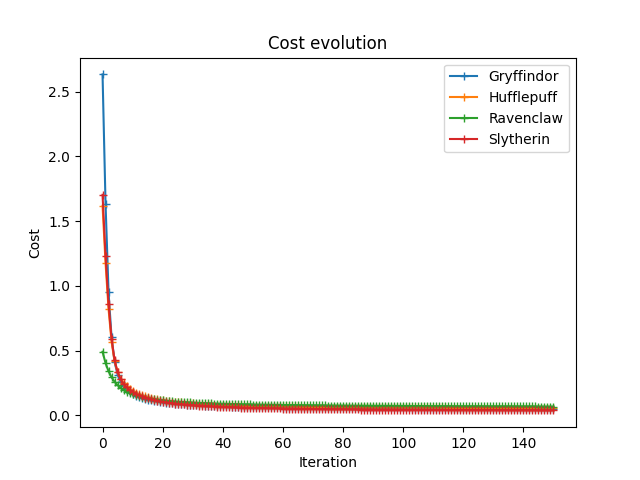
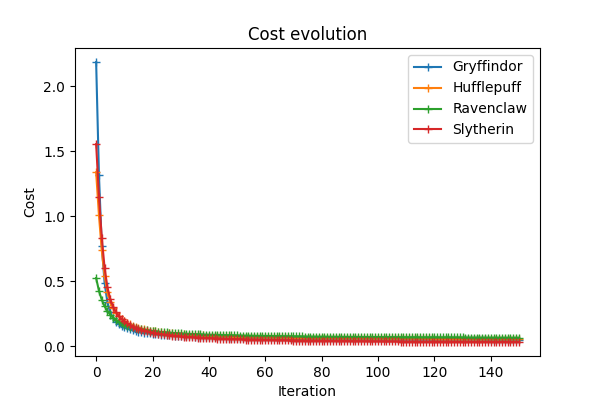
completed the readme

diff --git a/src/logreg_train.py b/src/logreg_train.py
@@ -34,13 +34,13 @@ def scale_features(df_train, courses, n_features):
         x_stds[i_row] = ft_std(x[i_row, :])
         x_scaled[i_row, :] = (x[i_row, :] - x_means[i_row]) / x_stds[i_row]
 
-    fig, ax = plt.subplots(1, 2, figsize=(12, 6))
+    fig, ax = plt.subplots(1, 2, figsize=(8, 4))
     ax[0].plot(x.T)
     ax[0].set_title('Unscaled features')
-    ax[0].legend(courses)
+    ax[0].legend(courses, fontsize=8)
     ax[1].plot(x_scaled.T)
     ax[1].set_title('Scaled features')
-    ax[1].legend(courses)
+    ax[1].legend(courses, fontsize=8)
     ax[0].set_xlabel('Student id')
     ax[0].set_ylabel('Score')
     ax[1].set_xlabel('Student id')
@@ -73,7 +73,7 @@ def gradient_descent(X, y_arr, n_features, houses):
             cost_evolution[i + 1, h] = cost(thetaT, X, y, n_train).squeeze()
         thetaT_arr[h, :] = thetaT
 
-    fig, ax = plt.subplots()
+    fig, ax = plt.subplots(figsize=(6, 4))
     ax.plot(cost_evolution, '-+')
     ax.set_xlabel('Iteration')
     ax.set_ylabel('Cost')

diff --git a/readme.md b/readme.md
@@ -1,12 +1,12 @@
-# 42 Data Science: Logistic Regression (DSLR)
+# 42 Data Science - Logistic Regression
 
-The goal of this project is to implement a multi-class linear classifier "from scratch" using logistic regression. From scratch here means that we implement our own data statistics tools, feature scaling, cost function, and gradient descent algorithm. We use Python 3.10 and the following libraries: numpy for efficient array/matrix operations, pandas for the manipulation of the dataset, and matplotlib for the visualization.
+The goal of this project is to implement a multi-class linear classifier "from scratch" using logistic regression. From scratch here means that we implement our own data statistics tools, feature scaling, cost function, and gradient descent algorithm. We use Python 3.10 and the following libraries: numpy for efficient array/matrix operations, pandas for the manipulation of the csv dataset, and matplotlib for the visualization.
 
 ## The story
 
 The Sorting Hat of the infamous Hogwarts school of wizards is not longer working and cannot fulfill his role of sorting the students into the four houses: _Ravenclaw_, _Gryffindor_, _Slytherin_, and _Hufflepuff_. We are provided a dataset from the previous years containing the scores of 1600 students across 13 fields, and the houses they were assigned to. With our muggle datascience and machine learning tools, we need to simulate a Sorting Hat to be able to sort the 400 new students into their best fitting houses based on their scores.
 
-## Task 1: Data Analysis
+## Data Analysis
 
 We create a program for computing basic statistics of our training dataset. For each of the 13 courses/fields, we compute the number of data points (count), mean score, standard deviation, minimum, maximum, median, first and third quartile. Note that this program is basically a re-implementation of the pandas builtin describe() function (that we are not allowed to use).
 
@@ -27,13 +27,13 @@ Min    -24370.000000  -966.740546   -10.295663  ...                  -3.313676  
 Max    104956.000000  1016.211940    11.612895  ...                   3.056546  -225.428140   279.070000
 ```
 
-We note the wide discrepancy of the score ranges used in different courses. This already gives us a hint that feature scaling will be crucial for the convergence of the gradient descent.
+We note the wide discrepancy of the score ranges used in different courses. This already gives us a hint that feature scaling will be necessary for the convergence of the gradient descent.
 
-## Task 2: Data Visualization
+## Data Visualization
 
 ### Histograms of score distribution
 
-To get a better sense of the score distribution in the different courses, and across the 4 houses, we implement a stacked histogram array. The output histogram is saved in the _figures_ directory
+To get a better sense of the score distribution in the different courses, and across the 4 houses, we produce a stacked histogram array. The output histogram is saved in the _figures_ directory.
 
 ```sh
 python src/histogram.py
@@ -55,15 +55,22 @@ python src/pair_plot.py
 
 We observe above the first 20 pair plots. Let's first focus on the pair plot corresponding to the two courses identified above as having a homogeneous score distribution across the different houses: _Arithmancy_ - _Care of Magical Creatures_. The 4 clouds of points are fully superimposed and do not allow to discriminate between their corresponding 4 houses. We thus discard those two features from the dataset. We also notice that two features are perfectly (anti-)correlated and thus fully redundant: _Astronomy_ and _Defense Against the Dark Arts_. We remove the _Astronomy_ feature from our dataset.
 
-## Task 3: Logistic Regression
+## Logistic Regression
 
-To implement our multi-class linear classifier, we follow the procedure and notation of the [Coursera Machine Learning](https://www.coursera.org/learn/machine-learning?specialization=machine-learning-introduction) course by Andrew Ng.
+To implement our multi-class linear classifier, we follow the procedure and notation of the [Coursera Machine Learning](https://www.coursera.org/learn/machine-learning?specialization=machine-learning-introduction) course by Andrew Ng. Because we do not have access to the true houses corresponding to the students in the test set (only revealed during project evaluation), we need to split our training set into two subsets to validate our procedure. 80% of the students are randomly sampled from the original train dataset and placed into a new training set, and the remaining 20% into a "dummy" test set. The actual house labels are moved from the new test set into an _expected_result_ csv file. These different files are generated into the _validation_datasets_ folder with the following command:
+
+```sh
+python src/generate_validation_datasets.py
+```
 
 ### Data cleaning and feature scaling
 
-From our training set, we remove the students for which some scores are missing. We retain $n = 1300$ students of the original 1600. Let $m = 10$ be the number of remaining features (course scores), and $x_ij$ the score in course $i$ of student $j$.
 
-The range of score being widely different from one course to another, it is important for the convergence of the gradient descent that we scale our features so they have similar means and standard variations. This normalization is performed as $x_{ij} = \frac{x_{ij} - \mathrm{mean}(x_{ij})}{\mathrm{std}(x_{ij})}$, where the mean and standard deviation are computed over the $j = 1$ to $n$ students. 
+From our training set, we remove the students for which some scores are missing. We retain $n = 1061$ students of the original 1280. Let $m = 10$ be the number of remaining features (course scores), and $x_{ij}$ the score in course $i$ of student $j$.
+
+The range of score being widely different from one course to another, it is important for the convergence of the gradient descent that we scale our features so they have similar means and standard variations. This normalization is performed as $x_{ij} = \frac{x_{ij} - \mathrm{mean}(x_{ij})}{\mathrm{std}(x_{ij})}$, where the mean and standard deviation are computed over the $j = 1$ to $n$ students. The orginal and scaled features are shown in the figure below:
+
+![features](./figures/features.png)
 
 ### Prediction
 
@@ -84,7 +91,7 @@ The logistic function is appropriate to separate data into two categories, depen
 
 The cost function $J(\mathbf{\theta})$ tells us, for a given set of weights $\mathbf{\theta}$, how well our estimation $\mathbf{\hat{y}}$ fits the labels $\mathbf{y}$. In linear regression, such cost function is usually as simple as the average of the squared distance between $\mathbf{\hat{y}}$ and $\mathbf{y}$. However, it can be shown that a cost function of this form is unsuited for logistic regression as it presents many local minima. Instead, a better suited cost function is computed as:
 $$J(\mathbf{\theta}) = -\frac{1}{m} \sum_{j = 1}^{n} [\ y_j \mathrm{log}(\hat{y}_j)  + (1 - y_j) \mathrm{log}(1 - \hat{y}_j) ]\ $$
-$$= \mathrm{log} (\mathbf{\hat{y}}) \mathbf{y^T} + \mathrm{log} (1 - \mathbf{\hat{y}}) (1 - \mathbf{y^T}) $$
+$$= -\frac{1}{m} [\ \mathrm{log} (\mathbf{\hat{y}}) \mathbf{y^T} + \mathrm{log} (1 - \mathbf{\hat{y}}) (1 - \mathbf{y^T}) ]\ $$
 with $\mathbf{\hat{y}} = h(\mathbf{\theta^T X})$.
 
 ### Gradient descent
@@ -101,15 +108,40 @@ $$\theta_i := \theta_i - \alpha \frac{\partial J}{\partial \theta_i}$$
 for $i = 0$ to $m$, or
 $$\mathbf{\theta} := \mathbf{\theta} -\alpha \mathbf{\nabla} J(\mathbf{\theta})$$
 using matrix notation.
-$\alpha$ is a parameter that controls the size of the steps. $\alpha$ should be small enough to ensure stability, i.e., to guarantee that each step we take reduces the value of the cost function. But $\alpha$ should also be large enough to ensure convergence towards the minimum in a reasonable time. In practice, we test various $\alpha$ values across several order of magnitudes and look at the evolution of the cost function $J(\mathbf{\theta})$ along iterations. A typical converging cost function looks line the ones below ($\alpha$=0.5, 200 iterations):
+$\alpha$ is a parameter that controls the size of the steps. $\alpha$ should be small enough to ensure stability, i.e., to guarantee that each step we take reduces the value of the cost function. But $\alpha$ should also be large enough to ensure convergence towards the minimum in a reasonable time. In practice, we test various $\alpha$ values across several order of magnitudes and look at the evolution of the cost function $J(\mathbf{\theta})$ along iterations. For a converging gradient descent, a typical evolution of the cost function looks like the one below ($\alpha$=0.5, 150 iterations):
 
-fig here.
+![cost evolution](./figures/cost_evolution.png)
 
-Note that this figure shows the convergence of the 4 classifiers corresponding to the 4 houses
-The weights of 4 classifiers are saved into a file as well as the scaling values (mean and std) that are used to normalize the raw student scores.
+Note that this figure shows the convergence of the 4 gradient descents corresponding to the 4 different classifiers (4 houses) that we train. The weights $\mathbf{\theta}$ of the 4 classifiers are saved into a _npz_ binary file along with the feature scaling parameters (mean and standard deviation of course scores).
 
-## Task 4: Application to the test set:
+The training of the classifiers is performed with the following command:
 
-forward prop appl to test set.
+```sh
+python src/logreg_train.py --valid
+```
+for the training subset used for our validation procedure, or
+```sh
+python src/logreg_train.py
+```
+for the full training dataset.
 
+### Application to the test set
 
+To make a prediction on the test set, we first load the trained weights $\mathbf{\theta}$ of the 4 classifiers, and the feature scaling parameters. We load our test set and apply the same feature selection and scaling that we used on the train set. For each classifier, we compute the estimated probabilities of belonging to the corresponding house using the logistic regression formula $\mathbf{\hat{y}} = h(\mathbf{\theta^T X})$. We then assign each student with the house that shows the highest probability and save the results in the _houses.csv_ file.
+
+```sh
+python src/logreg_predict --valid
+```
+for the test set of validation procedure, or
+```sh
+python src/logreg_predict
+```
+for the real test set.
+
+Finally, to assess the accuracy of our procedure on the validation datasets, we compute the percentage of matching names between the predicted (__houses.csv__) and true (__expected_result.csv__) houses:
+
+```sh
+python src/assess_accuracy.py
+```
+
+Depending on the random sampling instance of the train and test validation subsets, the accuracy seem to oscillate between 97% and 99%. accuracy.
